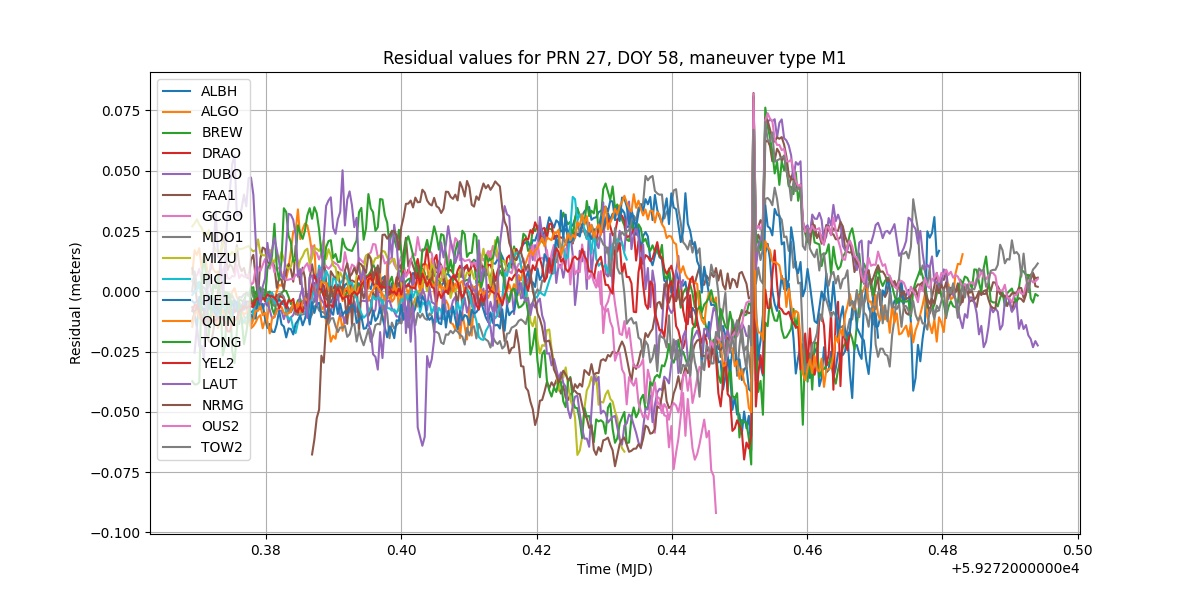
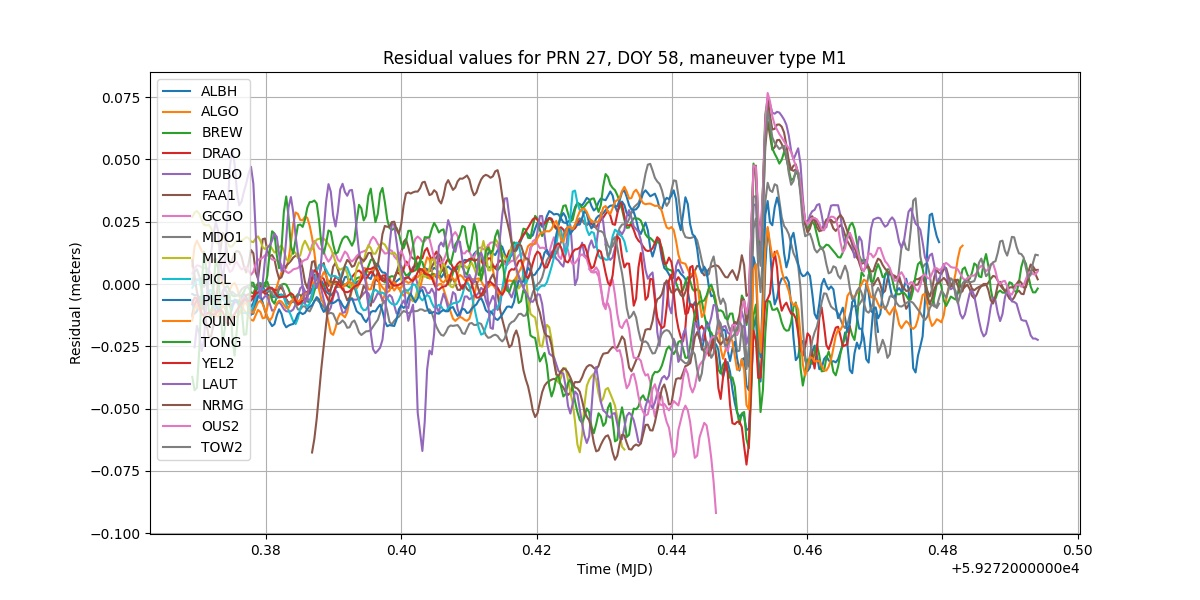
Fixed third model and started on fourth

diff --git a/python/estimation.py b/python/estimation.py
@@ -132,17 +132,6 @@ def solveLSEModel2(residualData, orbitData, stationsData):
 
     for epoch in epochs:
         A, rk = computeBlock1DesignMatrix(residualData, orbitData, stationsData, epoch)
-        '''
-        y1 = -solveLSE(A, rk)
-
-        A2 = np.append(A, [[2 * constants.PCO_x * np.cos(np.deg2rad(y1)),
-                            2 * constants.PCO_x * np.sin(np.deg2rad(y1))]], axis=0)
-        r2 = np.append(rk, [2 * (constants.PCO_x ** 2)], axis=0)
-        AtA = A2.transpose().dot(A2)
-        x = np.linalg.inv(AtA).dot(A2.transpose()).dot(r2)
-
-        y2 = np.rad2deg(np.arctan2(x[1], x[0]))
-        '''
 
         y2 = solveLSE2(A, rk)
         yaw_nominal = orbitData['yaw'][orbitData['mjd'].index(epoch)]
@@ -152,14 +141,15 @@ def solveLSEModel2(residualData, orbitData, stationsData):
         except IndexError:
             pass
 
-        yaw.append(y2) # TODO see why the algorithm seems to estimate -yaw instead of yaw ?!
+        yaw.append(y2)
 
     return (epochs, yaw)
 
 
 def solveLSEModel3(residualData, orbitData, stationsData):
     """
-    This function implements a simple LSE model on residual data to estimate yaw angles, while using a restraint condition.
+    This function implements a simple LSE model on residual data to estimate yaw angles, while using a restraint condition
+    and also estimating satellite clock corrections. TODO add satellite clocks to output and plots.
     :param residualData: dictionary containing data read from .res file
     :param orbitData: dictionary containing data read from .orb file, used to compute azimuth and nadir angles for the design matrix
     :param stationsData: dictionary containing stations data (index, name and position)
@@ -178,7 +168,7 @@ def solveLSEModel3(residualData, orbitData, stationsData):
         except IndexError:
             pass
 
-        yaw.append(y2)  # TODO see why the algorithm seems to estimate -yaw instead of yaw ?!
+        yaw.append(y2)
 
     return (epochs, yaw)
 
@@ -197,7 +187,8 @@ def computeGrandDesignMatrixWindow(residualData, orbitData, stationsData, startE
     # Get residual data contained between startEpoch and endEpoch into a dictionary format
     trimmedResData = utils.trimResDataWindow(residualData, startEpoch, endEpoch)
     # Get initial epochs and yaw values between startEpoch and endEpoch by using the trimmed residual data
-    (epochs_init, yaw_init) = solveLSEModel2(trimmedResData, orbitData, stationsData)
+    (epochs_init, yaw_init) = solveLSEModel3(trimmedResData, orbitData, stationsData)
+    #yaw_init = filterLowpass(yaw_init, Wn=0.1, N=4)
 
     # Initialize residual vector which will also contain pseudo observations for restraints
     Rk = np.empty((0, 0), float)
@@ -259,43 +250,45 @@ def computeGrandDesignMatrixWindow(residualData, orbitData, stationsData, startE
 
 
 
-def solveLSEModel4WithRestraint(residualData, orbitData, stationsData, startEpoch, endEpoch):
+def solveLSEModel4(A, rk):
     # trimmedResData = utils.trimResDataWindow(residualData, startEpoch, endEpoch)
     # (epochs, _) = solveLSEModel1WithRestraint(trimmedResData, orbitData, stationsData)
-
-    (A, rk, epochs) = computeGrandDesignMatrixWindow(residualData, orbitData, stationsData, startEpoch, endEpoch)
-
+    # TODO see why on Earth the fourth estimator is not convergent ?!!! For the third the problem was on LSE solving - implementing a separate function fixed it
     AtA = A.transpose().dot(A)
     X = np.linalg.inv(AtA).dot(A.transpose()).dot(rk)
     yaw = []
 
-    for epoch in epochs:
-        i = epochs.index(epoch)
-        x = X[2*i: (2*i)+2]
-        y = np.rad2deg(np.arctan2(x[1], x[0]))
-        yaw.append(y)
+    AtA = A.transpose().dot(A)
+    x = np.linalg.inv(AtA).dot(A.transpose()).dot(rk)
+    yaw = np.rad2deg(np.arctan2(x[1], x[0]))
 
-    return (epochs, yaw)
+    #for epoch in epochs:
+    #    i = epochs.index(epoch)
+    #    x = X[2*i: (2*i)+2]
+    #    y = np.rad2deg(np.arctan2(x[1], x[0]))
+    #    yaw.append(y)
+
+    return yaw
 
 
 
-def solveLSEModel4WithRestraintWindow(residualData, orbitData, stationsData, Ne=10):
+def solveLSEModel4Window(residualData, orbitData, stationsData, Ne=10):
     epochs = utils.getEpochsArray(residualData)
+
     epochs_final = []
     yaw = []
-    for epoch in epochs[1:-Ne-1]:
+    for epoch in epochs[1:-Ne - 1]:
         index = epochs.index(epoch)
         startEpoch = epoch
 
-        endEpoch = epochs[index+Ne]
+        endEpoch = epochs[index + Ne]
         try:
-            e, y = solveLSEModel4WithRestraint(residualData, orbitData, stationsData, startEpoch, endEpoch)
+            (A, rk, e) = computeGrandDesignMatrixWindow(residualData, orbitData, stationsData,
+                                                             startEpoch, endEpoch)
+            y = solveLSEModel4(A, rk)
 
-            epochs_final.append(e[5])
-            yaw.append(y[5])
-
-            print(epochs_final)
-            print(yaw)
+            epochs_final.append(startEpoch)
+            yaw.append(y)
         except:
             pass
 

diff --git a/python/main.py b/python/main.py
@@ -7,7 +7,7 @@ if __name__ == '__main__':
 
     year = 21
     prn = 27
-    doy = 59
+    doy = 58
     man = "M1"
     man_simulated = "M1_sim" # simulated .res files contain maneuvers with an S at the end to differentiate from real residuals
 
@@ -16,7 +16,7 @@ if __name__ == '__main__':
     orbitData = utils.getOrbData(year, doy, prn, man)
     stationsList = utils.getStationsList(orbitData, stationsData)
     residualDataReal = utils.getResData(year, doy, prn, man)
-    #residualDataReal = estimation.filterResiduals(residualDataReal)
+    residualDataReal = estimation.filterResiduals(residualDataReal)
     residualDataReal = utils.cleanResData(residualDataReal)
 
 
@@ -35,7 +35,7 @@ if __name__ == '__main__':
     graphics.plotEstimatedYaw(epochs, yaw, orbitData, year, doy, prn, man)
     '''
 
-
+    '''
     # Estimate yaw from simulated residuals
     (epochs, yaw) = estimation.solveLSEModel1(residualDataSimulated, orbitData, stationsData)
     graphics.plotEstimatedYaw(epochs, yaw, orbitData, year, doy, prn, man, extension="_sim_model1")
@@ -53,3 +53,6 @@ if __name__ == '__main__':
 
     (epochs, yaw) = estimation.solveLSEModel3(residualDataReal, orbitData, stationsData)
     graphics.plotEstimatedYaw(epochs, yaw, orbitData, year, doy, prn, man, extension="_real_model3")
+    '''
+    (epochs, yaw) = estimation.solveLSEModel4Window(residualDataReal, orbitData, stationsData)
+    graphics.plotEstimatedYaw(epochs, yaw, orbitData, year, doy, prn, man, extension="_real_model4")
